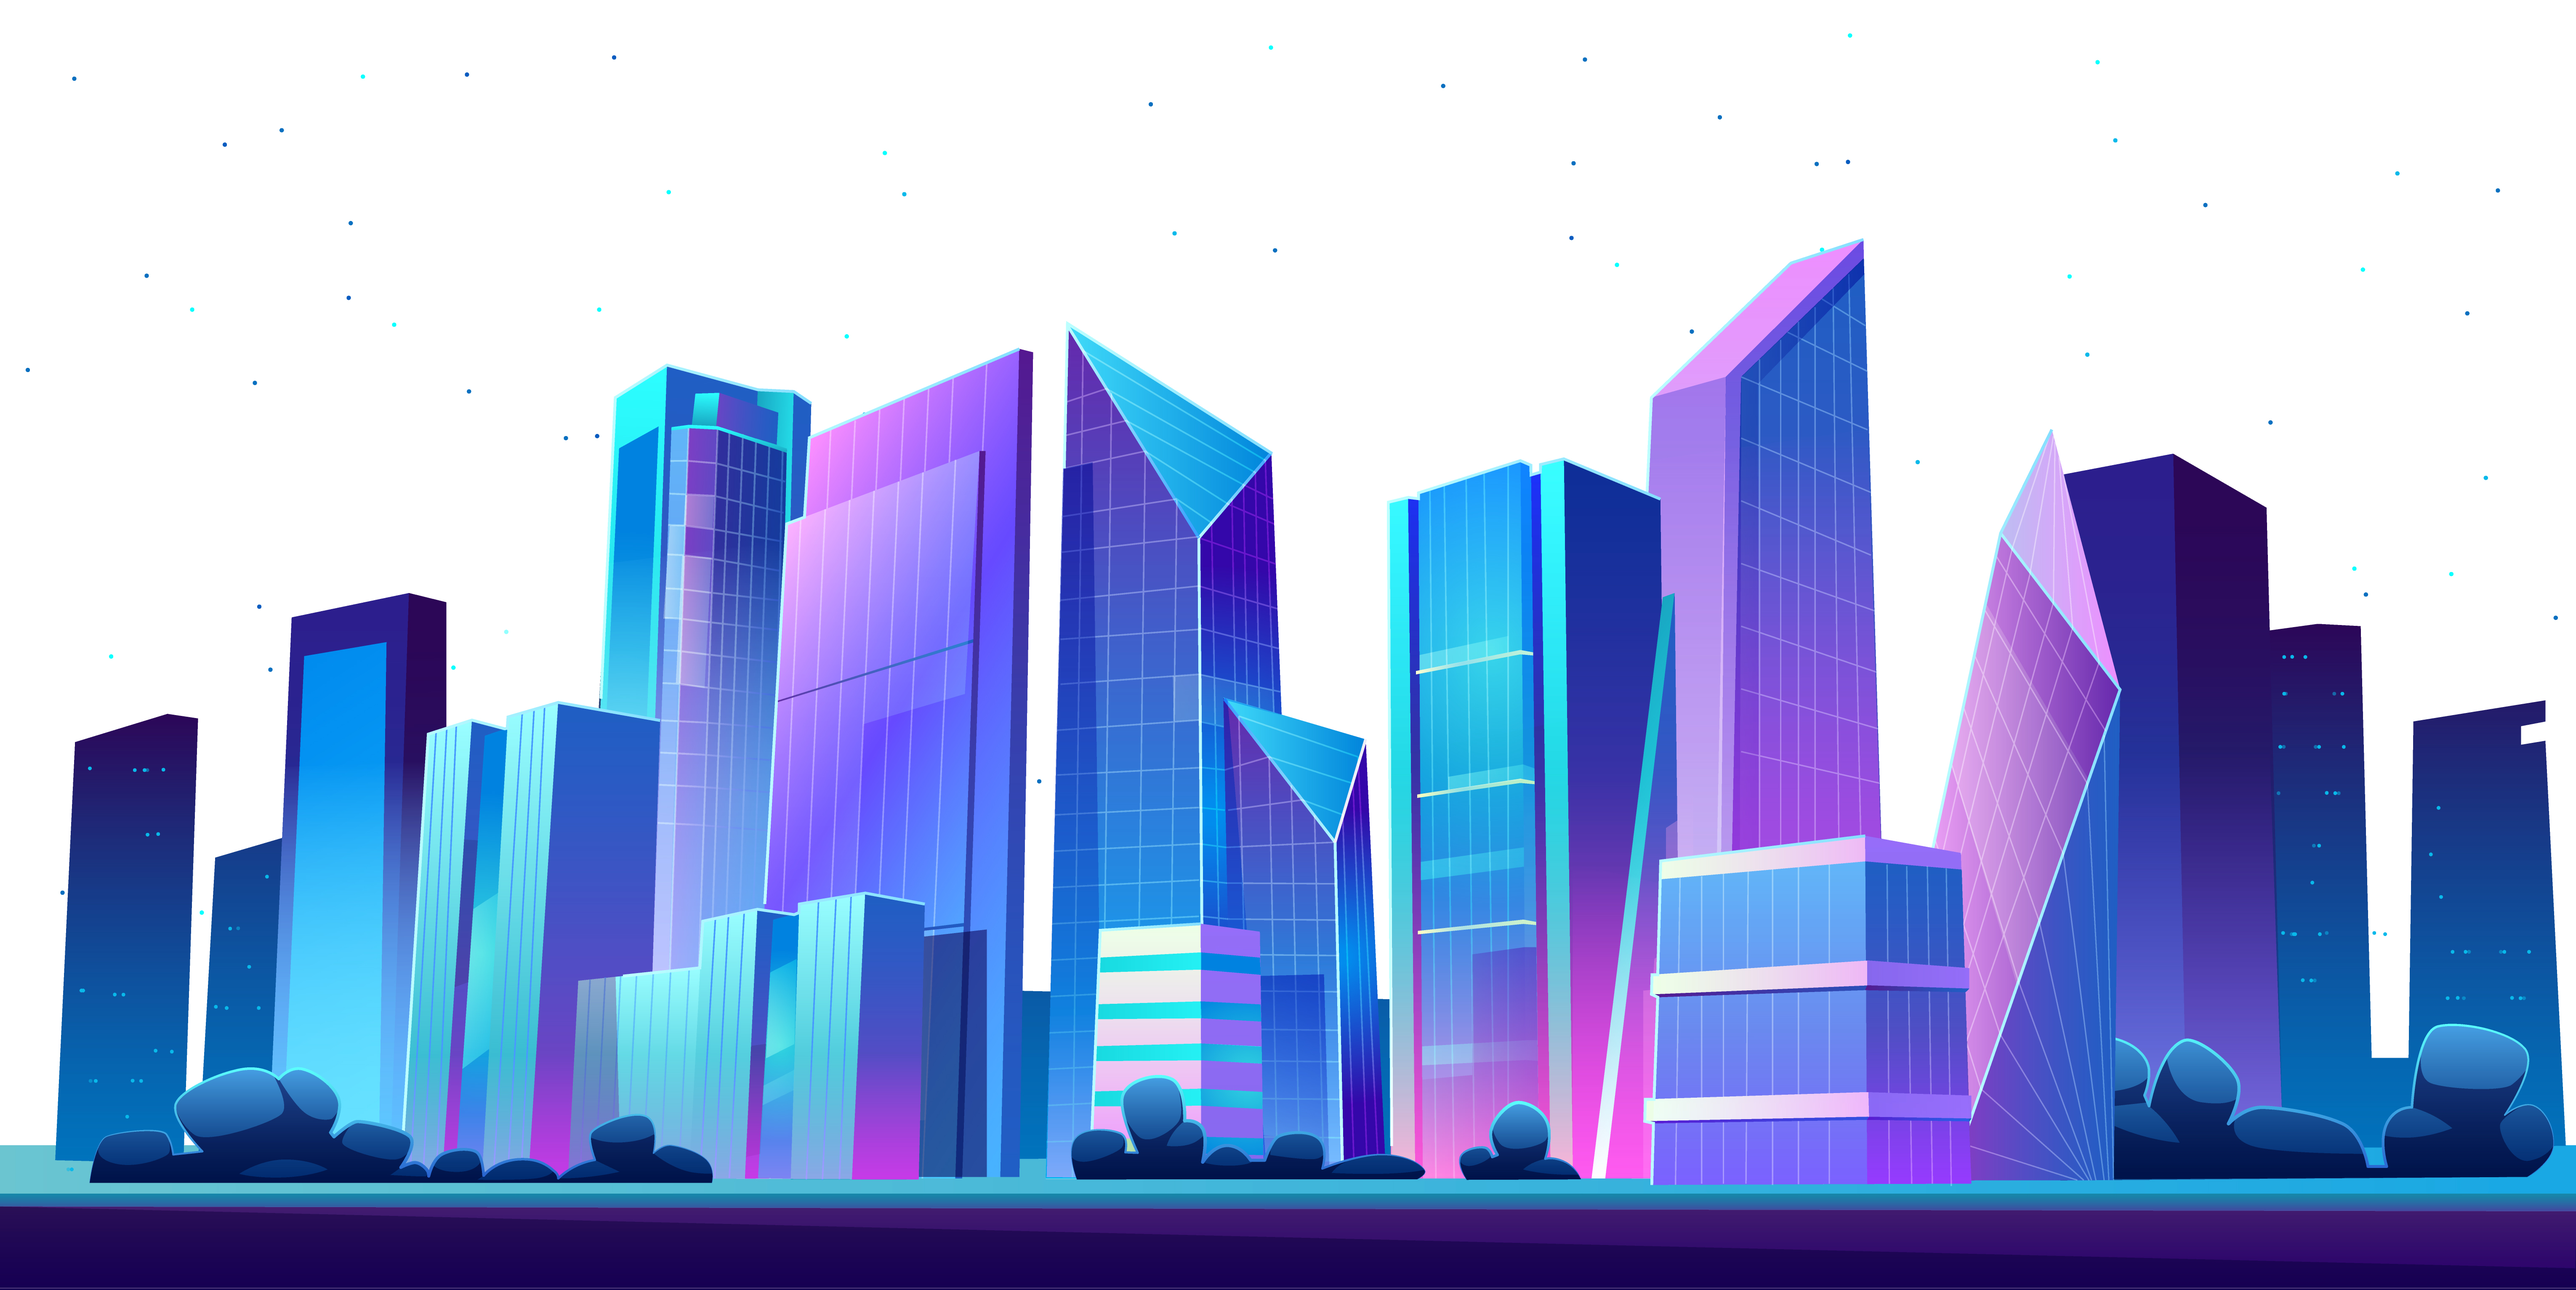
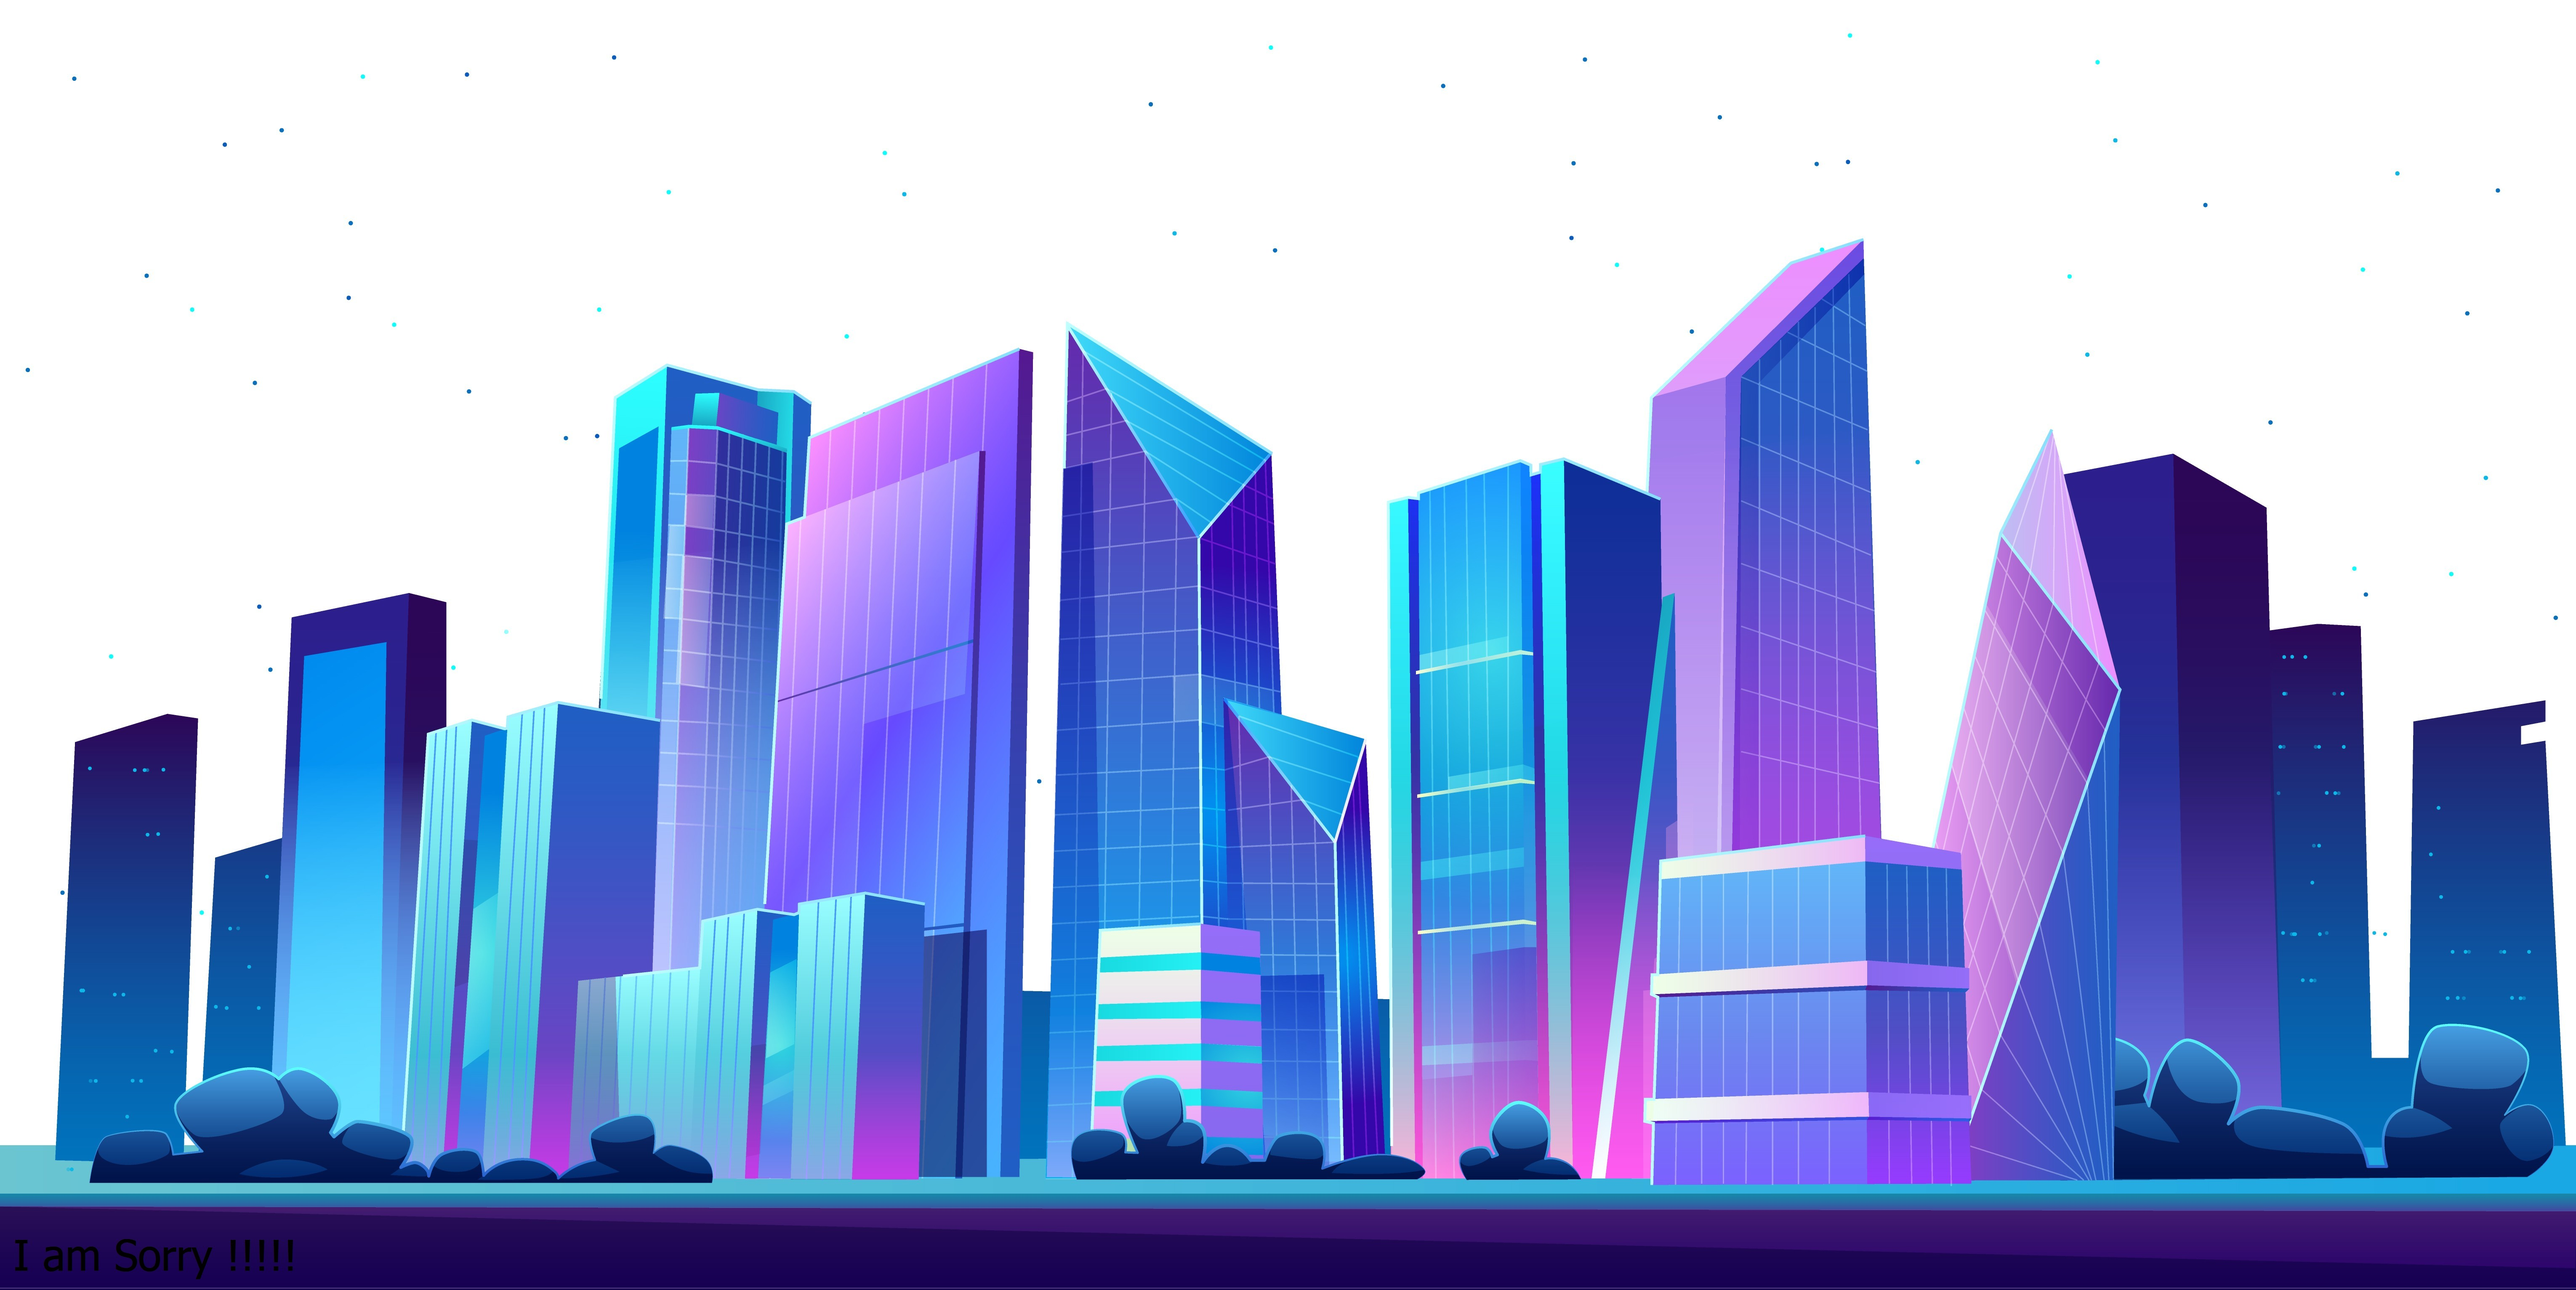
Changes to succes layout

Changed region(s): [[0.0, 0.9608, 0.1248, 0.9918]]

diff --git a/app/components/Navbar.tsx b/app/components/Navbar.tsx
@@ -63,7 +63,7 @@ export default function Navbar({ onRegisterClick }: { onRegisterClick?: () => vo
                     </span>
                 </Link>
 
-                <nav className="hidden lg:flex items-center gap-8 text-[13px] font-bold uppercase tracking-widest transition-colors duration-300 text-colors-inverted mr-8">
+                <nav className="hidden xl:flex items-center gap-8 text-[13px] font-bold uppercase tracking-widest transition-colors duration-300 text-colors-inverted mr-8">
                     <Link href="/#about" className="hover:text-biro-blue-dark transition-colors">About</Link>
                     <Link href="/#pitch" className="hover:text-biro-blue-dark transition-colors">Pitch</Link>
                     <Link href="/ticket" className="hover:text-biro-blue-dark transition-colors">Tickets</Link>
@@ -76,7 +76,7 @@ export default function Navbar({ onRegisterClick }: { onRegisterClick?: () => vo
 
                 <div className="flex items-center gap-4 min-w-0">
                     <ThemeToggle />
-                    <div className="hidden lg:block">
+                    <div className="hidden xl:block">
                         <Link
                             href="/register"
                             className="px-6 py-2.5 text-lg font-black rounded-full uppercase tracking-widest text-[11px] transition-all duration-300 active:scale-95 bg-biro-blue text-white hover:bg-transparent hover:border-3 hover:border-biro-blue hover:text-biro-blue"
@@ -87,7 +87,7 @@ export default function Navbar({ onRegisterClick }: { onRegisterClick?: () => vo
 
                     <button
                         onClick={() => setIsMenuOpen(!isMenuOpen)}
-                        className="lg:hidden shrink-0 p-2 cursor-pointer transition-colors duration-300 text-foreground"
+                        className="xl:hidden shrink-0 p-2 cursor-pointer transition-colors duration-300 text-foreground"
                         aria-label="Toggle Menu"
                     >
                         {isMenuOpen ? (
@@ -99,7 +99,7 @@ export default function Navbar({ onRegisterClick }: { onRegisterClick?: () => vo
                 </div>
             </div>
 
-            <div className={`fixed inset-0 bg-background lg:hidden transition-all duration-300 ease-in-out z-[200] flex flex-col ${isMenuOpen ? 'opacity-100 pointer-events-auto' : 'opacity-0 pointer-events-none'}`}>
+            <div className={`fixed inset-0 bg-background xl:hidden transition-all duration-300 ease-in-out z-[200] flex flex-col ${isMenuOpen ? 'opacity-100 pointer-events-auto' : 'opacity-0 pointer-events-none'}`}>
                 <div className="flex items-center justify-between px-6 py-3">
                     <Link href="/" className="flex items-center gap-2" onClick={handleLinkClick}>
                         <Image

diff --git a/app/register/success/page.tsx b/app/register/success/page.tsx
@@ -32,8 +32,8 @@ const TYPE_CONFIGS: Record<string, Config> = {
     title: "Ticket Confirmed!",
     message: "Thank you for purchasing your BTF 2.0 ticket! Check your email for your event pass and details.",
     shareText: "I just got my ticket for Benin Tech Fest 2.0 (BTF 2.0)! 🎫 Join me in Benin City from Nov 5-7, 2026.",
-    primaryCtaText: "Event Schedule",
-    primaryCtaHref: "/schedule",
+    primaryCtaText: "Home",
+    primaryCtaHref: "/",
     secondaryCtaText: "Home",
     secondaryCtaHref: "/",
   },
@@ -388,14 +388,6 @@ function SuccessContent() {
                   }`}
                 >
                   {primaryCtaText}
-                </Link>
-              )}
-              {secondaryCtaText && (
-                <Link
-                  href={secondaryCtaHref}
-                  className="flex h-[52px] md:h-[60px] px-8 items-center justify-center rounded-full bg-gray-200 text-[1.05rem] md:text-[1.2rem] font-medium uppercase tracking-[-0.02em] text-[#111111] transition-colors duration-200 hover:bg-gray-300"
-                >
-                  {secondaryCtaText}
                 </Link>
               )}
             </div>
